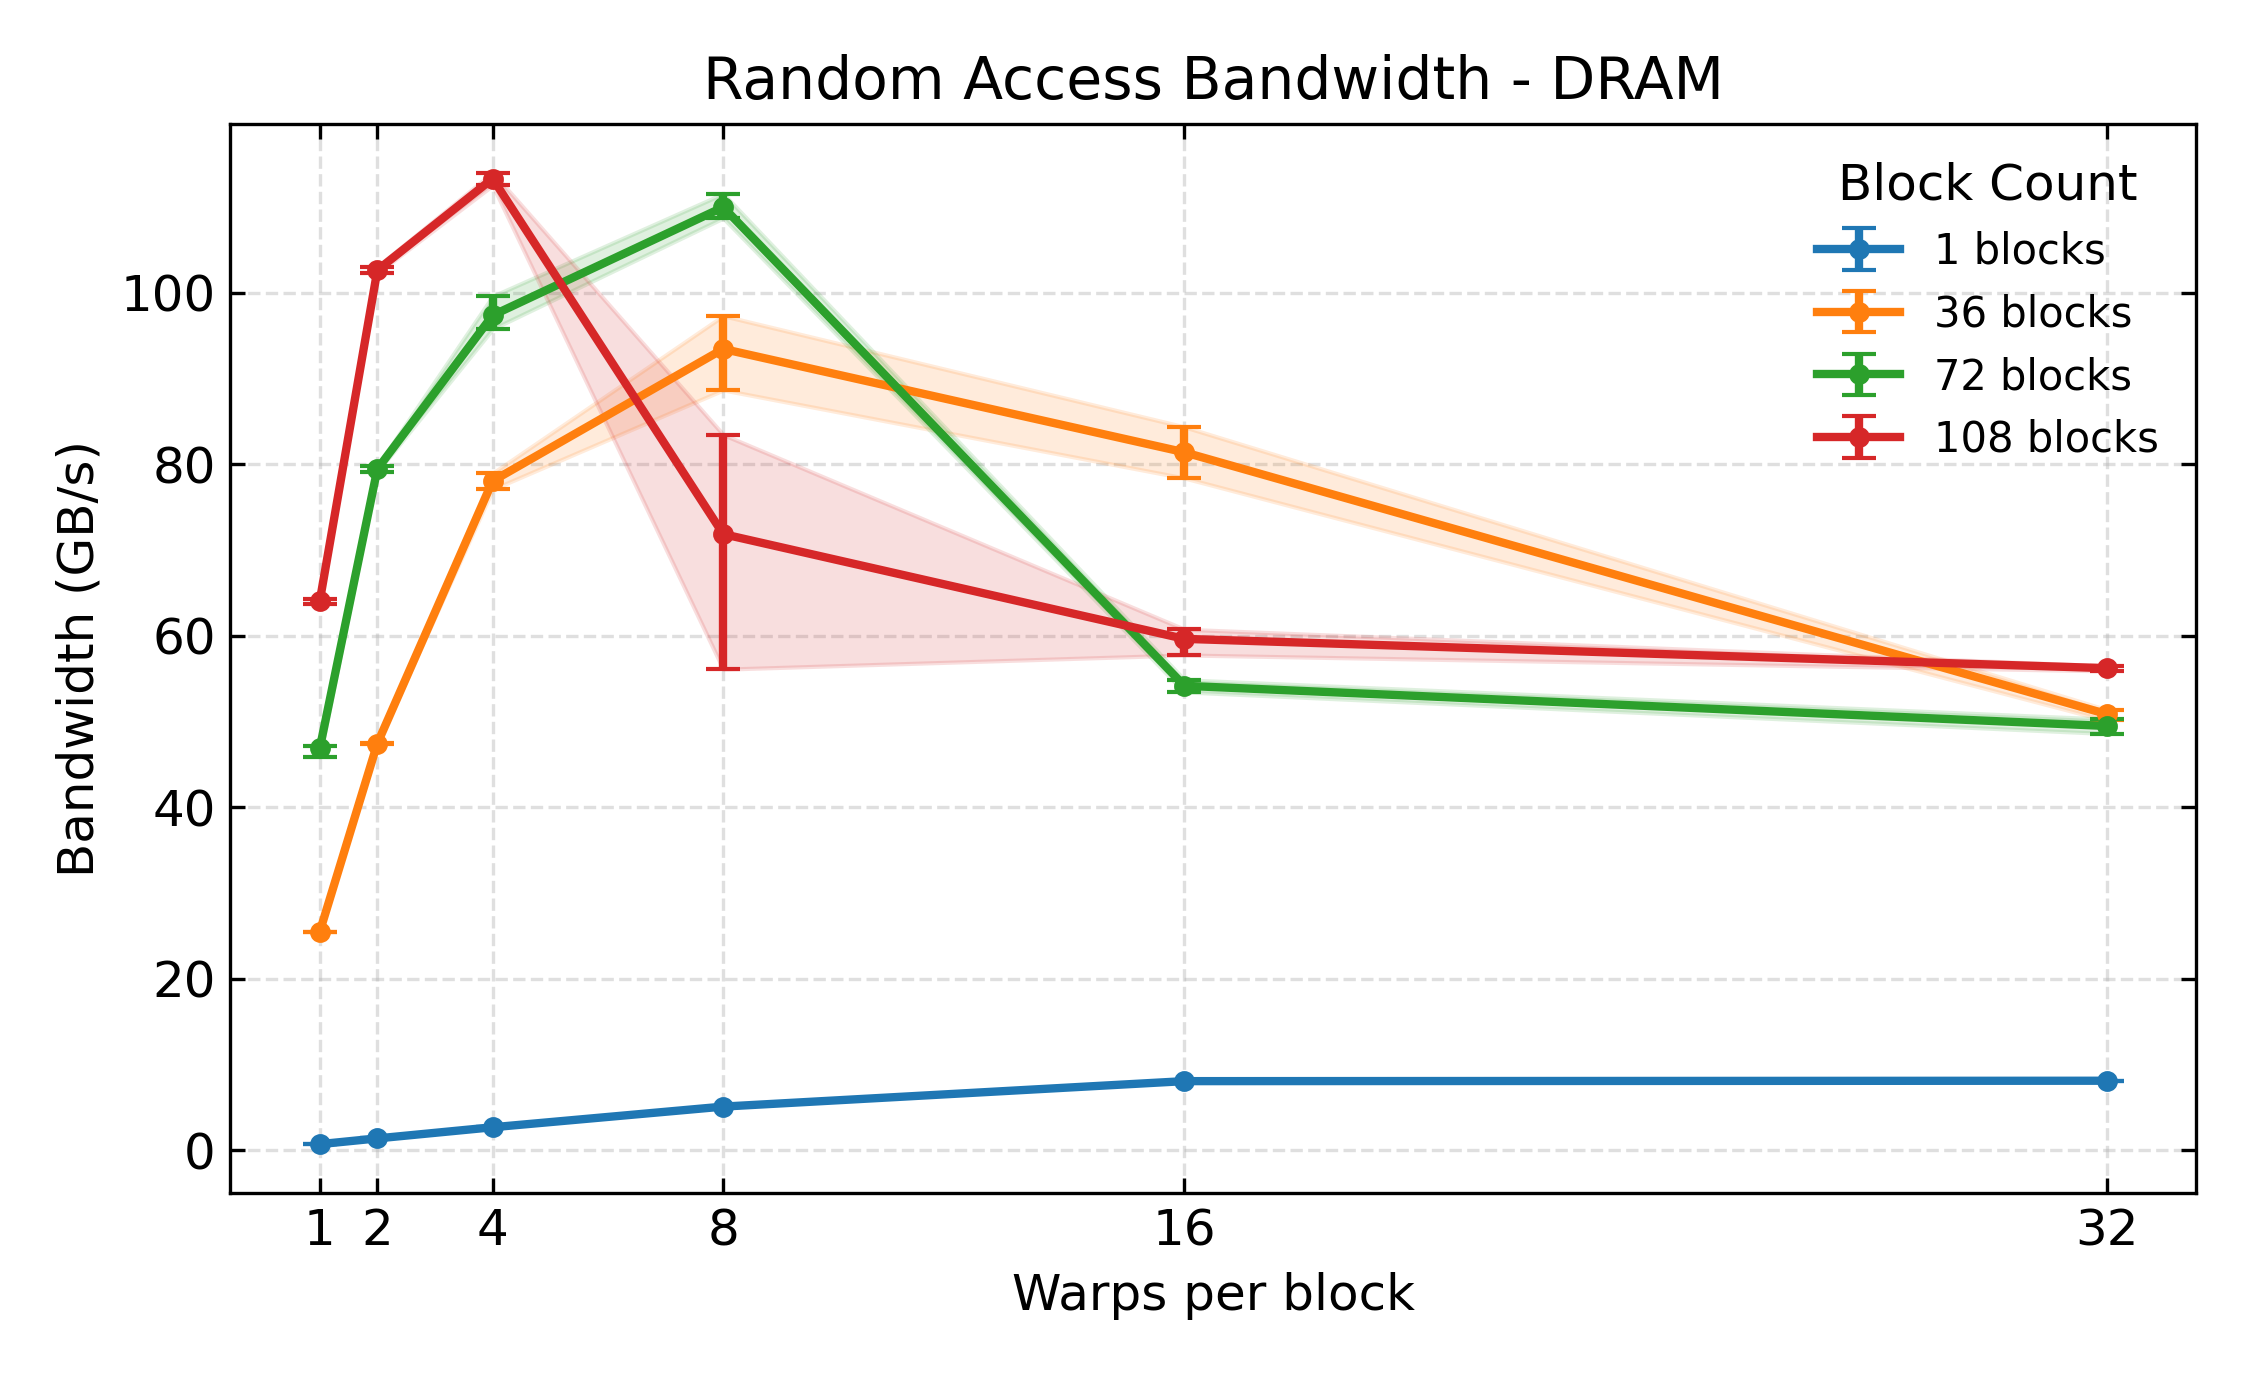
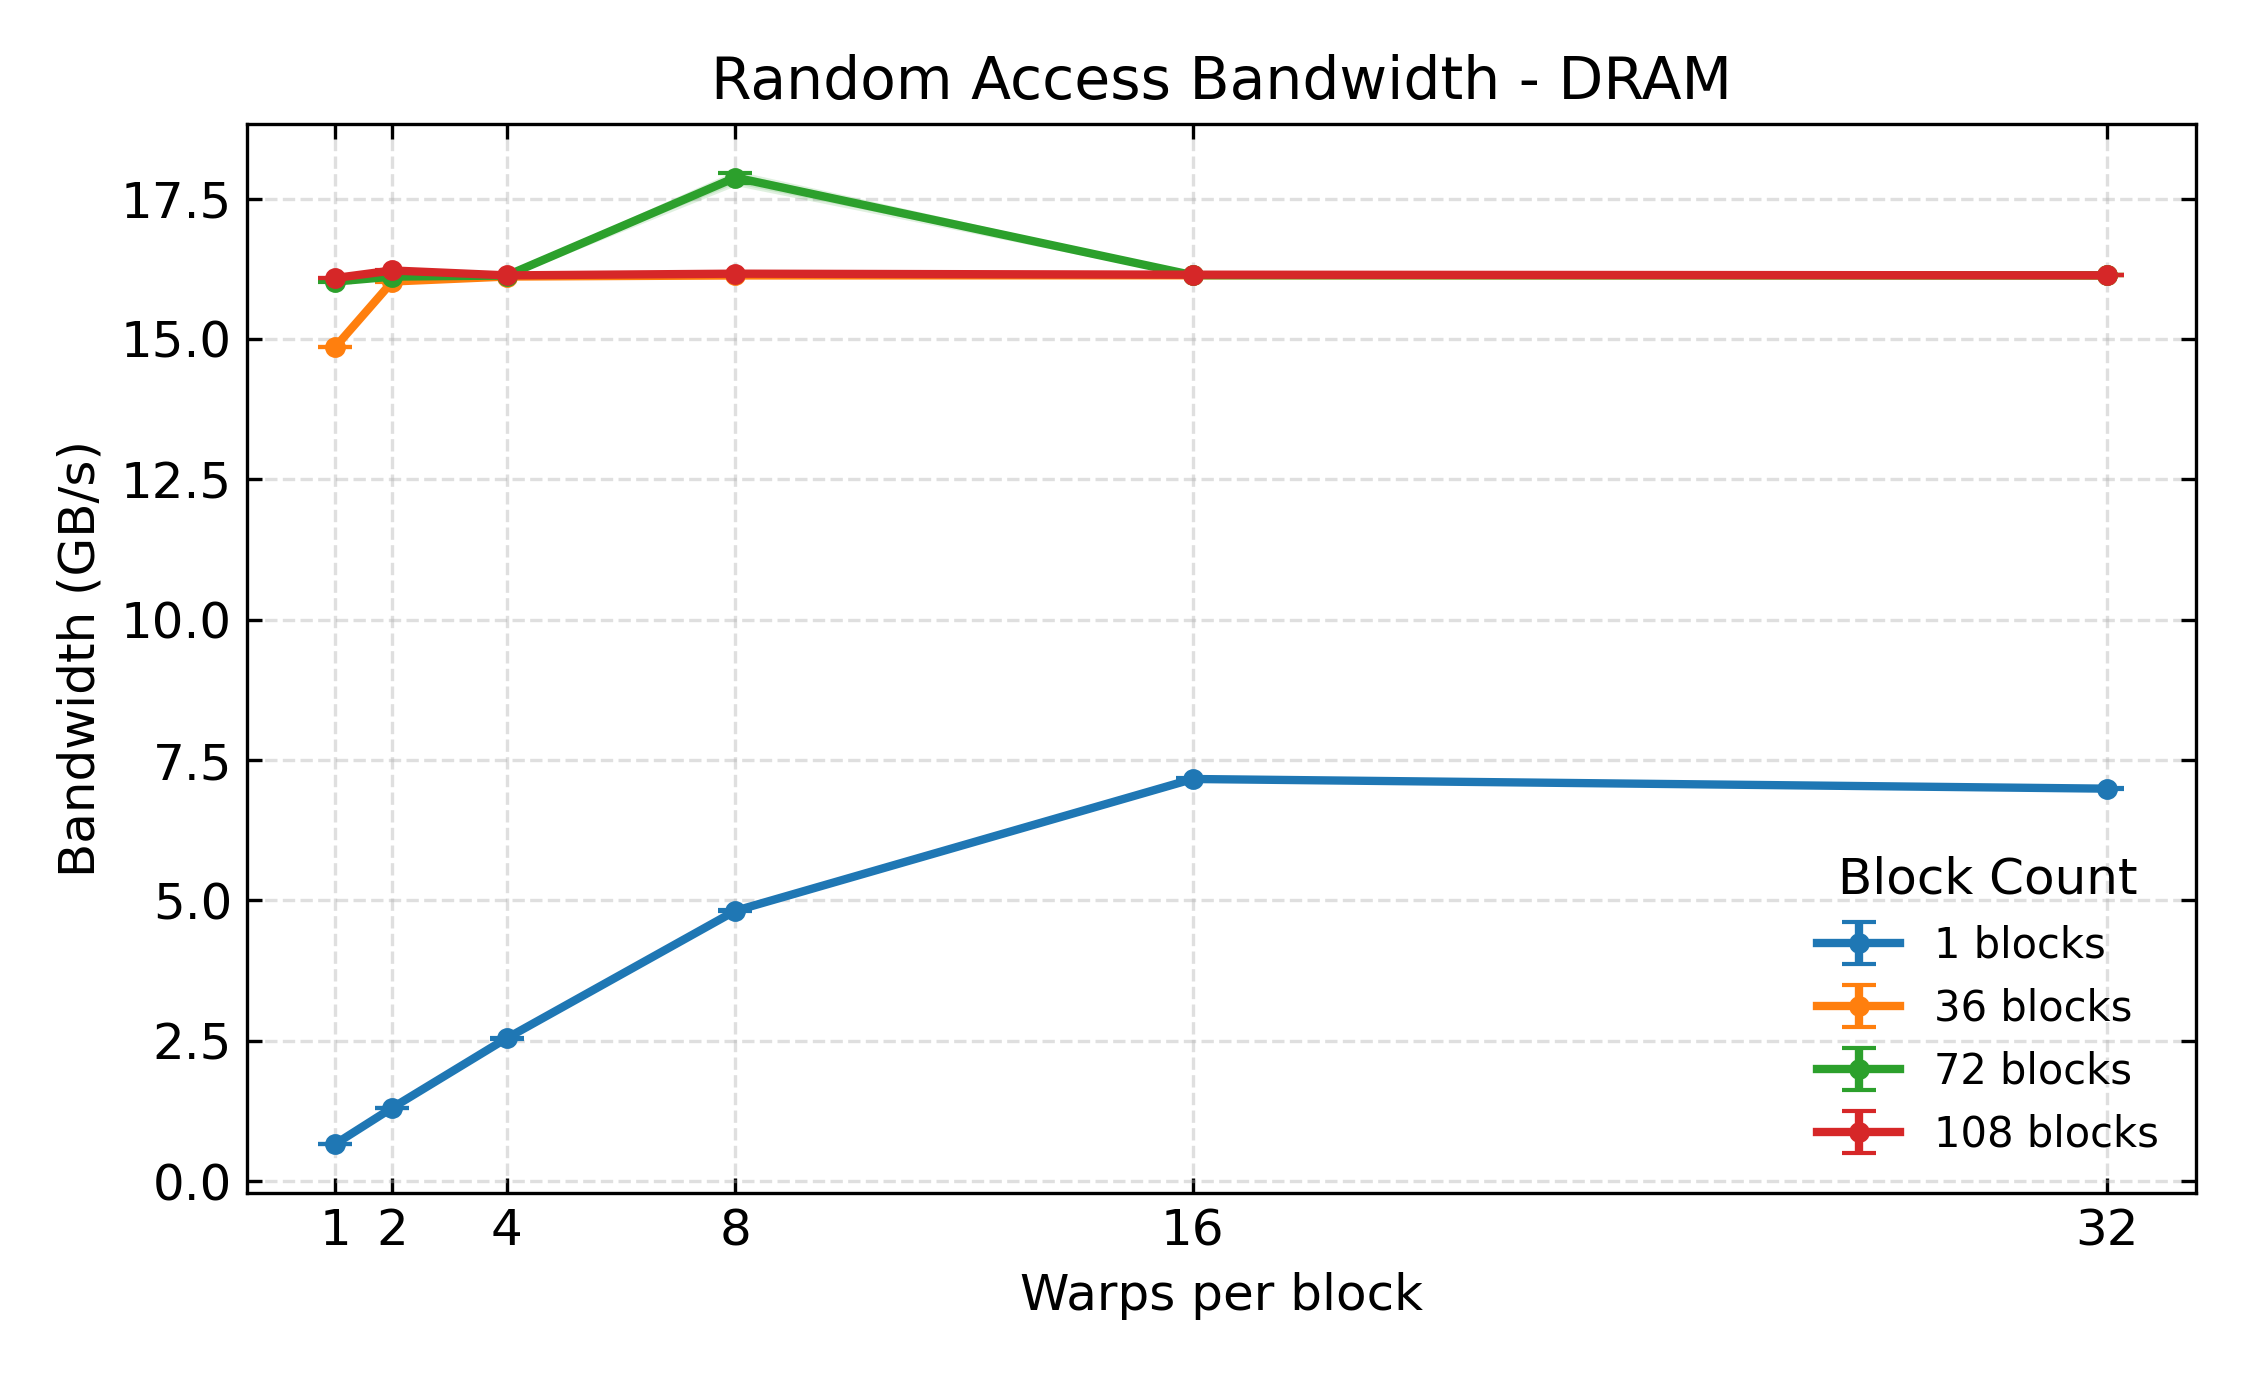
fix box plotting and increase dram working set

diff --git a/python/plot_utils.py b/python/plot_utils.py
@@ -383,6 +383,7 @@ def plot_with_box_plots(
     legend_title: Optional[str] = None,
     legend_loc: str = "best",
     box_width: float = 0.6,
+    jitter_frac: float = 0.1,
 ):
     """Create a grouped box plot with scatter overlay.
 
@@ -400,22 +401,53 @@ def plot_with_box_plots(
     n_ticks = len(x)
     
     indices = range(n_ticks)
-    total_group_width = 0.8
-    single_box_width = total_group_width / n_series
-    offsets = [
-        (i - (n_series - 1) / 2) * single_box_width for i in range(n_series)
-    ]
+    total_group_width = box_width
+    single_box_width = total_group_width / n_series if n_series > 0 else total_group_width
 
     for i, (series, label) in enumerate(zip(y_raw, labels)):
-        positions = [idx + offsets[i] for idx in indices]
-        
+        positions = []
         valid_data = []
         valid_pos = []
-        for d, p in zip(series, positions):
-            if d:
-                valid_data.append(d)
-                valid_pos.append(p)
-        
+        jitter_scales = []
+        for idx, d in enumerate(series):
+            if not d:
+                continue
+            base_x = idx
+            available_series = [
+                s_idx
+                for s_idx, s in enumerate(y_raw)
+                if idx < len(s) and s[idx]
+            ]
+            if len(available_series) <= 1:
+                pos = base_x
+            else:
+                ranges = {}
+                for s_idx in available_series:
+                    data = y_raw[s_idx][idx]
+                    min_val = min(data)
+                    max_val = max(data)
+                    span = max(max_val - min_val, 1e-12)
+                    pad = span * 0.15
+                    ranges[s_idx] = (min_val - pad, max_val + pad)
+                overlap_group = []
+                for s_idx in available_series:
+                    i_min, i_max = ranges[i]
+                    s_min, s_max = ranges[s_idx]
+                    if not (i_max < s_min or i_min > s_max):
+                        overlap_group.append(s_idx)
+                if len(overlap_group) <= 1:
+                    pos = base_x
+                    jitter_scale = 0.0
+                else:
+                    rank = overlap_group.index(i)
+                    offset = (rank - (len(overlap_group) - 1) / 2) * single_box_width
+                    pos = base_x + offset
+                    jitter_scale = jitter_frac
+            positions.append(pos)
+            valid_data.append(d)
+            valid_pos.append(pos)
+            jitter_scales.append(jitter_scale)
+
         if not valid_data:
             continue
 
@@ -428,7 +460,7 @@ def plot_with_box_plots(
         bp = ax.boxplot(
             valid_data,
             positions=valid_pos,
-            widths=single_box_width * 0.9,
+            widths=single_box_width * 0.8,
             patch_artist=True,
             showfliers=False, # We will plot points manually
             medianprops=dict(color="black", linewidth=1.2),
@@ -439,25 +471,30 @@ def plot_with_box_plots(
         # Style boxes and legend
         for j, box in enumerate(bp['boxes']):
             box.set_facecolor(color)
-            box.set_alpha(0.6)
+            box.set_alpha(0.75)
             box.set_edgecolor("black")
             box.set_linewidth(1)
+            box.set_zorder(3)
             if j == 0:
                 box.set_label(label)
 
         # Scatter overlay
-        for data_points, pos in zip(valid_data, valid_pos):
+        for data_points, pos, jitter_scale in zip(valid_data, valid_pos, jitter_scales):
             # Jitter
-            jitter = np.random.uniform(-single_box_width * 0.2, single_box_width * 0.2, size=len(data_points))
+            jitter = np.random.uniform(
+                -single_box_width * jitter_scale,
+                single_box_width * jitter_scale,
+                size=len(data_points),
+            )
             ax.scatter(
                 [pos] * len(data_points) + jitter, 
                 data_points, 
                 color=color, 
                 edgecolor='black', 
                 linewidth=0.5,
-                s=15, 
-                alpha=0.9,
-                zorder=3
+                s=12, 
+                alpha=0.6,
+                zorder=2
             )
 
     # Temporarily clear xticks from cfg to prevent _apply_axes_config from setting them wrong

diff --git a/python/plot_random_access.py b/python/plot_random_access.py
@@ -106,9 +106,9 @@ def plot_single_box_plot(name, df, plot_dir):
 
 def plot_combined(results, plot_dir):
     mapping = {
-        "random_access_l1": 1,
-        "random_access_l2": 108,
-        "random_access_dram": 72
+        "random_access_l1": 36,
+        "random_access_l2": 36,
+        "random_access_dram": 36
     }
     
     valid_keys = [k for k in mapping.keys() if k in results]
@@ -179,9 +179,9 @@ def plot_combined(results, plot_dir):
 
 def plot_combined_box_plot(results, plot_dir):
     mapping = {
-        "random_access_l1": 1,
-        "random_access_l2": 108,
-        "random_access_dram": 72
+        "random_access_l1": 36,
+        "random_access_l2": 36,
+        "random_access_dram": 36
     }
     
     valid_keys = [k for k in mapping.keys() if k in results]

diff --git a/python/orchestrator.py b/python/orchestrator.py
@@ -189,7 +189,7 @@ class RandomAccessBenchmark(Benchmark):
             mode="dram",
             num_warps=[2**i for i in range(6)],
             num_accesses=int(1e7),
-            working_set=64 * 1024 * 1024,
+            working_set=2 * 1024 * 1024 * 1024,
             data_type="f32",
             num_blocks=[1, 36, 72, 108],
             reps=reps,
